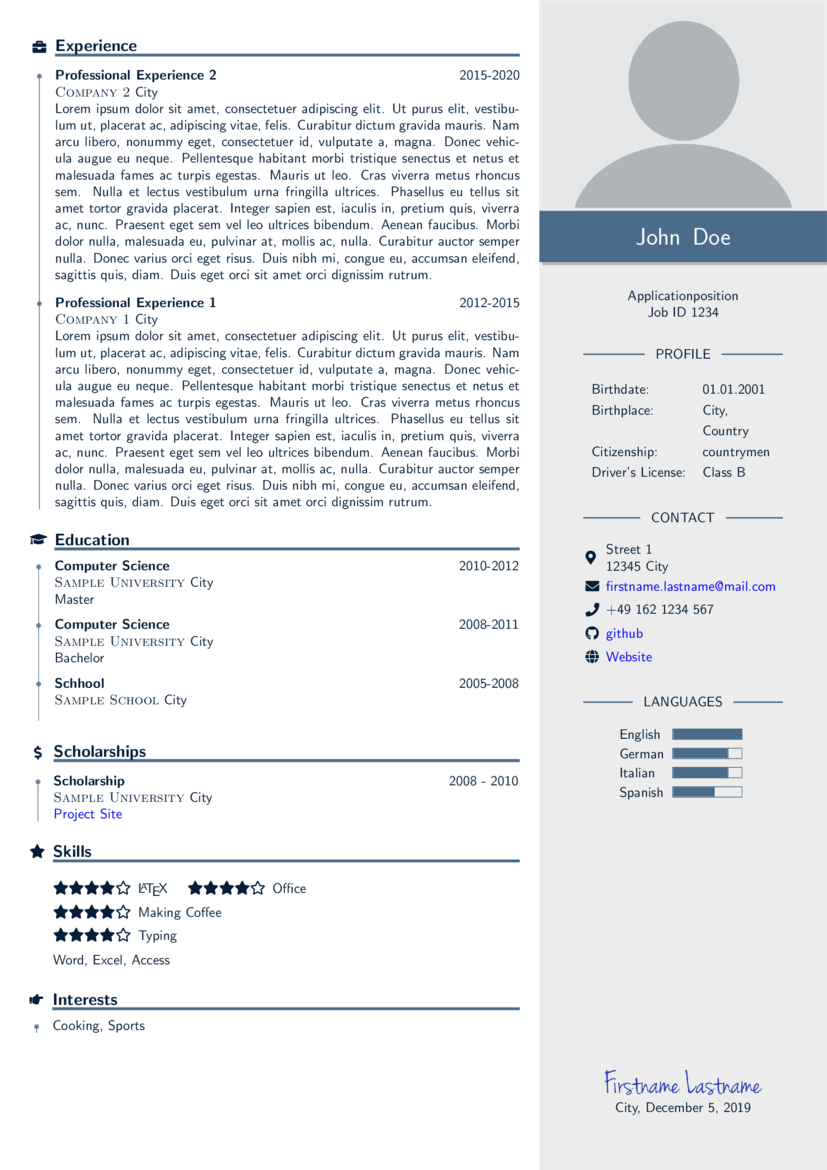
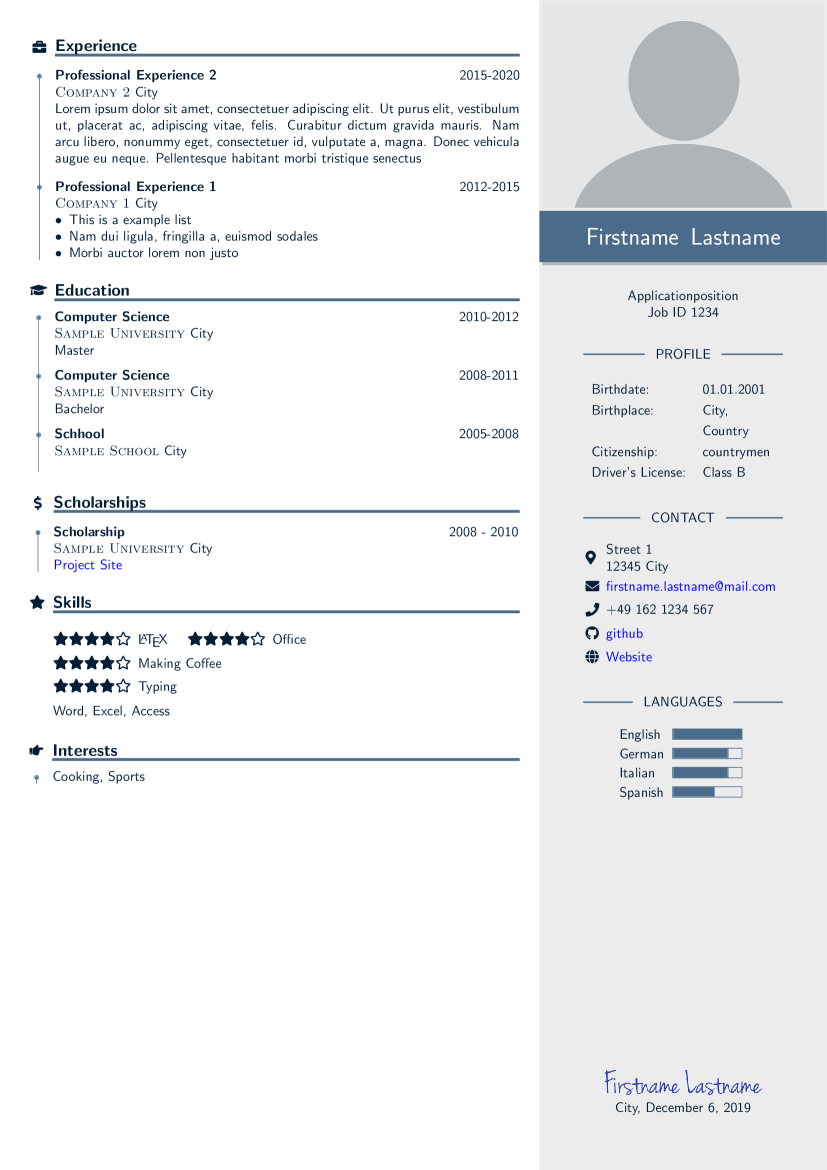
Update pictures

Changed region(s): [[0.0302, 0.0923, 0.6348, 0.8923], [0.7255, 0.1846, 0.9371, 0.2154], [0.5441, 0.5231, 0.6348, 0.5538]]

diff --git a/cvbody.tex b/cvbody.tex
@@ -3,12 +3,18 @@
         \begin{cvItem}
             \textbf{Professional Experience 2} \hfill 2015-2020\\
             \textsc{Company 2} City\\
-            \lipsum[1]
+            Lorem ipsum dolor sit amet, consectetuer adipiscing elit. Ut purus elit, vestibulum ut, placerat ac,
+            adipiscing vitae, felis. Curabitur dictum gravida mauris. Nam arcu libero, nonummy eget, consectetuer
+            id, vulputate a, magna. Donec vehicula augue eu neque. Pellentesque habitant morbi tristique senectus
         \end{cvItem}
         \begin{cvItem}
             \textbf{Professional Experience 1} \hfill 2012-2015\\
-            \textsc{Company 1} City\\
-            \lipsum[1]
+            \textsc{Company 1} City
+            \begin{itemize}[leftmargin=*]
+                \item This is a example list
+                \item Nam dui ligula, fringilla a, euismod sodales
+                \item  Morbi auctor lorem non justo
+            \end{itemize}
         \end{cvItem}
     \end{experience}
 

diff --git a/main.tex b/main.tex
@@ -4,8 +4,8 @@
 % \setLanguage{german}
 \setLanguage{english}
 
-\setFirstName{John}
-\setLastName{Doe}
+\setFirstName{Firstname}
+\setLastName{Lastname}
 \setAddress{Street 1}
 \setZipcode{12345}
 \setCity{City}
